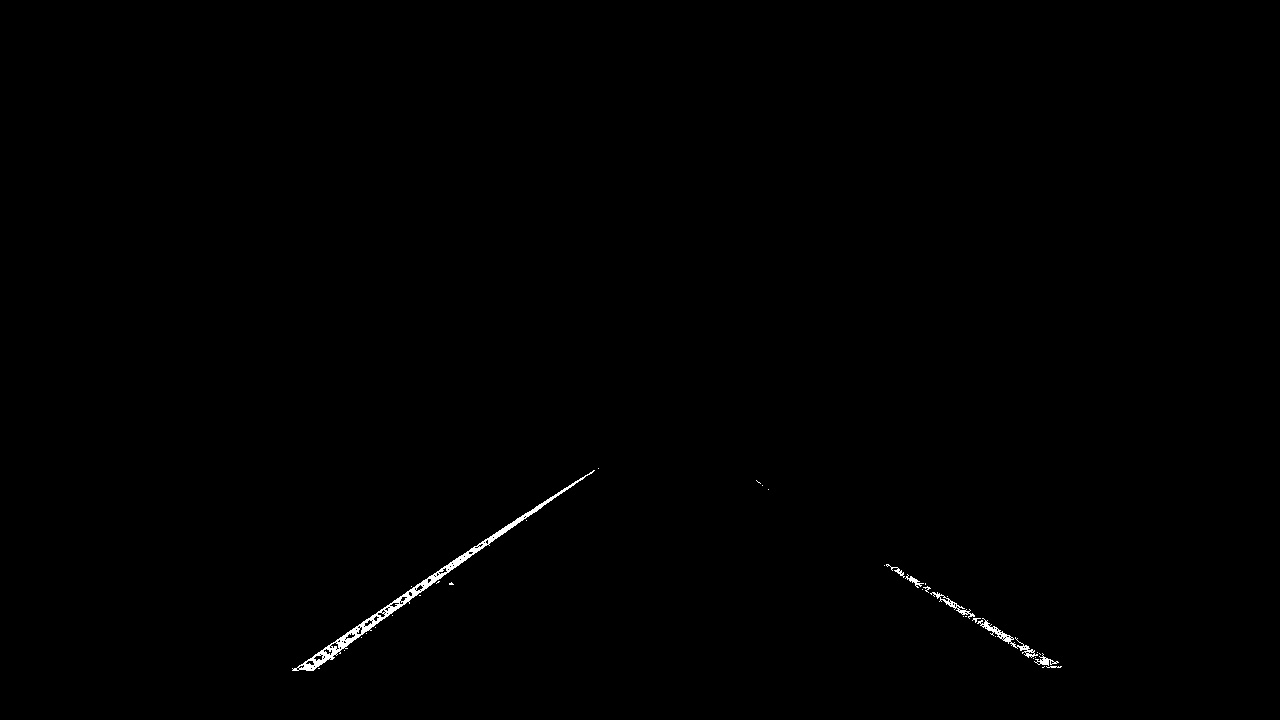
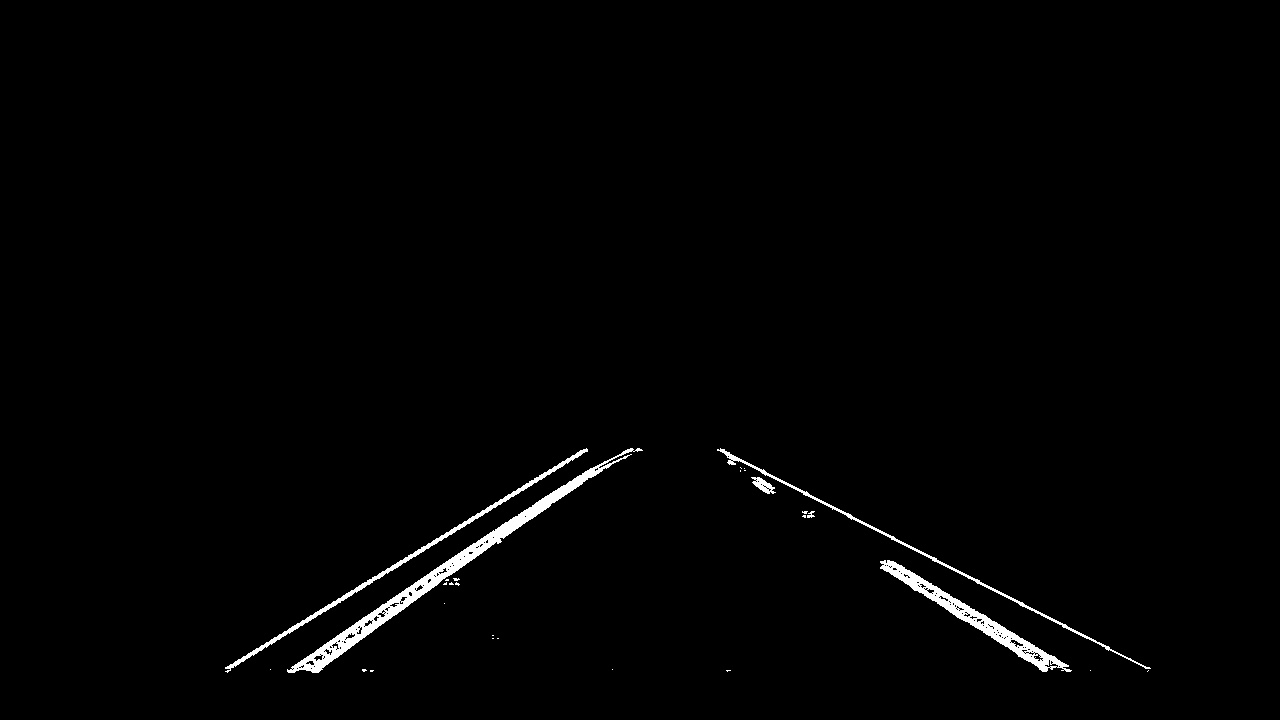
update

diff --git a/main.py b/main.py
@@ -154,14 +154,14 @@ def warper(img, M):
     """
     img_shape = img.shape
     img_size = (img_shape[1],img_shape[0])
-    img_warped = cv2.warpPerspective(img, M, img_size)
-    return img_warped
+    img_proc = cv2.warpPerspective(img, M, img_size)
+    return img_proc
 
-def unwarp(img, Minv):
-    img_shape = img.shape
-    img_size = (img_shape[1],img_shape[0])
-    return cv2.warpPerspective(img,Minv,img_size)
-    return img
+#def unwarp(img, Minv):
+#    img_shape = img.shape
+#    img_size = (img_shape[1],img_shape[0])
+#    return cv2.warpPerspective(img,Minv,img_size)
+#    return img
 
 def draw_lines(img, lines, color=[255, 0, 0], thickness=2):
     """
@@ -319,6 +319,12 @@ def make_binary_image(img):
     mag_binary = mag_thresh(img_blur_gray, sobel_kernel=ksize, mag_thresh=(200, 255))
     dir_binary = dir_threshold(img_blur_gray, sobel_kernel=ksize, thresh=(.95, 1.05))
 
+    gradx = abs_sobel_thresh(img_blur_gray, orient='x', sobel_kernel=ksize, thresh=(10, 255))
+    grady = abs_sobel_thresh(img_blur_gray, orient='y', sobel_kernel=ksize, thresh=(60, 255))
+    mag_binary = mag_thresh(img_blur_gray, sobel_kernel=ksize, mag_thresh=(40, 255))
+    dir_binary = dir_threshold(img_blur_gray, sobel_kernel=ksize, thresh=(.65, 1.05))
+
+
 
     # Combine all the thresholding information
     combined = np.zeros_like(dir_binary)
@@ -343,6 +349,31 @@ def make_binary_image(img):
         print('Scaling image')
         color_binary = (color_binary / np.amax(color_binary)) * 255
     return color_binary
+
+
+# Define a class to receive the characteristics of each line detection
+class Line():
+    def __init__(self):
+        # was the line detected in the last iteration?
+        self.detected = False
+        # x values of the last n fits of the line
+        self.recent_xfitted = []
+        #average x values of the fitted line over the last n iterations
+        self.bestx = None
+        #polynomial coefficients averaged over the last n iterations
+        self.best_fit = None
+        #polynomial coefficients for the most recent fit
+        self.current_fit = [np.array([False])]
+        #radius of curvature of the line in some units
+        self.radius_of_curvature = None
+        #distance in meters of vehicle center from the line
+        self.line_base_pos = None
+        #difference in fit coefficients between last and new fits
+        self.diffs = np.array([0,0,0], dtype='float')
+        #x values for detected line pixels
+        self.allx = None
+        #y values for detected line pixels
+        self.ally = None
 
 
 def proc_pipeline(objpoints, imgpoints, img, save_interm_results = 0, name = '',
@@ -381,6 +412,7 @@ def proc_pipeline(objpoints, imgpoints, img, save_interm_results = 0, name = '',
 
     # Undistort image and save results.
     proc_img = undistort_image(objpoints, imgpoints, img)
+    orig_img = proc_img
     if save_interm_results:
         cv2.imshow('img', proc_img)
         cv2.waitKey(500)
@@ -437,16 +469,40 @@ def proc_pipeline(objpoints, imgpoints, img, save_interm_results = 0, name = '',
 
     # Make perspective transformed image from region of interest image and save results
     M, Minv = get_warp_params(img, src, dst)
-    proc_img_temp = warper(proc_img_temp, M)
+    img_warp = warper(proc_img_temp, M)
     if save_interm_results:
-        cv2.imshow('img', proc_img_temp)
+        cv2.imshow('img', img_warp)
         cv2.waitKey(500)
         cv2.destroyAllWindows()
         out_path = os.path.join(outdir, name + '_perspectivetransformed_drawROI' + '.jpg')
         cv2.imwrite(out_path, proc_img_temp)
 
+
+    # Warp the blank back to original image space using inverse perspective matrix (Minv)
+    newwarp = warper(img_warp, Minv)
+
+
+
+
+    f, (ax1, ax2, ax3) = plt.subplots(1, 3, figsize=(24, 9))
+
+    ax1.imshow(orig_img)
+    ax1.set_title('Undistorted original image')
+
+    ax2.imshow(img_warp, cmap = 'gray')
+    ax2.set_title('Warped image')
+
+    ax3.imshow(newwarp, cmap = 'gray')
+    ax3.set_title('De-warped image')
+
+    plt.show()
+
+
+
+
     # Make binary image, crop to ROI, and save results.
     proc_img = make_binary_image(proc_img)
+    bin_img = proc_img
     if save_interm_results:
         cv2.imshow('bin', proc_img)
         cv2.waitKey(500)
@@ -472,6 +528,7 @@ def proc_pipeline(objpoints, imgpoints, img, save_interm_results = 0, name = '',
     # Make perspective transformed image on the Hough image.
     M, Minv = get_warp_params(img, src, dst)
     proc_img = warper(proc_img, M)
+    bin_warp_img = proc_img
     if save_interm_results:
         cv2.imshow('bin_transform', proc_img)
         cv2.waitKey(500)
@@ -511,13 +568,13 @@ def proc_pipeline(objpoints, imgpoints, img, save_interm_results = 0, name = '',
 
 
     # Color the pixels that we will fit to in order to ensure we're using correct ones.
-    temp = img.copy()
-    temp = temp * 0
-    print(temp.shape)
-    temp[left_raw_x, left_raw_y,0] = 100
-    temp[left_raw_x, left_raw_y,1] = 100
-    cv2.imshow('Found lane pixels', temp)
-    cv2.waitKey(2000)
+    #temp = img.copy()
+    #temp = temp * 0
+    #print(temp.shape)
+    #temp[left_raw_x, left_raw_y,0] = 100
+    #temp[left_raw_x, left_raw_y,1] = 100
+    #cv2.imshow('Found lane pixels', temp)
+    #cv2.waitKey(2000)
 
 
     # Make general fit line
@@ -555,30 +612,98 @@ def proc_pipeline(objpoints, imgpoints, img, save_interm_results = 0, name = '',
     #cv2.waitKey(1000)
 
 
-    implot = plt.imshow(proc_img)
-    plt.plot(left_fit_y, x_vals, c='g', linewidth = 2)
-    plt.plot(right_fit_y, x_vals, c='g', linewidth = 2)
-    #plt.scatter(left_fit_y, x_vals, c='b', s = 40)
-    #plt.scatter(x_vals, right_fit_y, c='g', s = 40)
+
+
+    str1 = 'Radius of Curvature = 7159(m)'
+    str2 = 'Vehicle is 0.17m left of center'
+
+
+
+    # Create an image to draw the lines on
+    warp_zero = np.zeros_like(bin_warp_img).astype(np.uint8)
+    color_warp = np.dstack((bin_warp_img, bin_warp_img, bin_warp_img))
+
+    # Recast the x and y points into usable format for cv2.fillPoly()
+    pts_left = np.array([np.transpose(np.vstack([x_vals, left_fit_y]))])
+    pts_right = np.array([np.flipud(np.transpose(np.vstack([x_vals, right_fit_y])))])
+    pts = np.hstack((pts_left, pts_right))
+
+    # Draw the lane onto the warped blank image
+    cv2.fillPoly(color_warp, np.int_([pts]), (0,255, 0))
+
+    # Warp the blank back to original image space using inverse perspective matrix (Minv)
+    newwarp = warper(color_warp, Minv)
+    # Combine the result with the original image
+    orig_img = orig_img.astype(np.uint8)
+    newwarp = newwarp.astype(np.uint8)
+    result = cv2.addWeighted(orig_img, 1, newwarp, 0.3, 0)
+    #plt.imshow(result)
+
+
+    f, (ax1, ax2, ax3, ax4) = plt.subplots(1, 4, figsize=(24, 9))
+    #f.tight_layout()
+
+    ax1.imshow(orig_img)
+    ax1.set_title('Undistorted original image')
+
+    ax2.imshow(bin_img, cmap = 'gray')
+    ax2.set_title('Undistorted binary')
+
+    ax3.imshow(bin_warp_img, cmap = 'gray')
+    ax3.plot(left_fit_y, x_vals, c='g', linewidth = 2)
+    ax3.plot(right_fit_y, x_vals, c='b', linewidth = 2)
+    ax3.set_title('Undistorted, transformed binary')
+
+    ax4.imshow(result)
+    ax4.set_title('Lanes on image')
+
     plt.show()
 
 
+    out_path = os.path.join(outdir, name + '_total_results' + '.jpg')
+    f.savefig(out_path, bbox_inches='tight')
+
+    #time.wait(500)
 
 
 
-    time.wait(500)
+
+#     f, axarr = plt.subplots(1, 3, figsize=(24, 9))
+#     axarr[0].im
+#
+# ax1.imshow(img, cmap='gray')
+# ax1.set_title('Pipeline Results', fontsize=40)
+#
+# # Plot up the data
+# ax2.plot(left_line.allx, left_line.ally, 'o', color='red')
+# ax2.plot(right_line.allx, right_line.ally, 'o', color='blue')
+# plt.xlim(0, 1280)
+# plt.ylim(0, 720)
+# ax2.plot(left_line.bestx, left_line.ally, color='green', linewidth=3)
+# ax2.plot(right_line.bestx, right_line.ally, color='green', linewidth=3)
+# plt.gca().invert_yaxis() # to visualize as we do the images
+# ax2.set_title('Line Fits', fontsize=40)
+# plt.subplots_adjust(left=0., right=1, top=0.9, bottom=0.)
+# f.savefig('output_images/line_fit_'+str(idx)+'.jpg')
+
+
+
+
+
+
+    #time.wait(500)
 
     #fit left and right lane marker samples to 2nd order polynomial
-    LeftMarker.fit_values = np.polyfit(lefty, leftx, 2)
-    RightMarker.fit_values = np.polyfit(righty, rightx, 2)
+    #LeftMarker.fit_values = np.polyfit(lefty, leftx, 2)
+    #RightMarker.fit_values = np.polyfit(righty, rightx, 2)
 
 
-    if save_interm_results:
-        cv2.imshow('proc_img_left', zero_right)
-        cv2.waitKey(1500)
-        cv2.imshow('proc_img_right', zero_left)
-        cv2.waitKey(1500)
-        cv2.destroyAllWindows()
+    #if save_interm_results:
+    #    cv2.imshow('proc_img_left', zero_right)
+    #    cv2.waitKey(1500)
+    #    cv2.imshow('proc_img_right', zero_left)
+    #    cv2.waitKey(1500)
+    #    cv2.destroyAllWindows()
 
 
 
